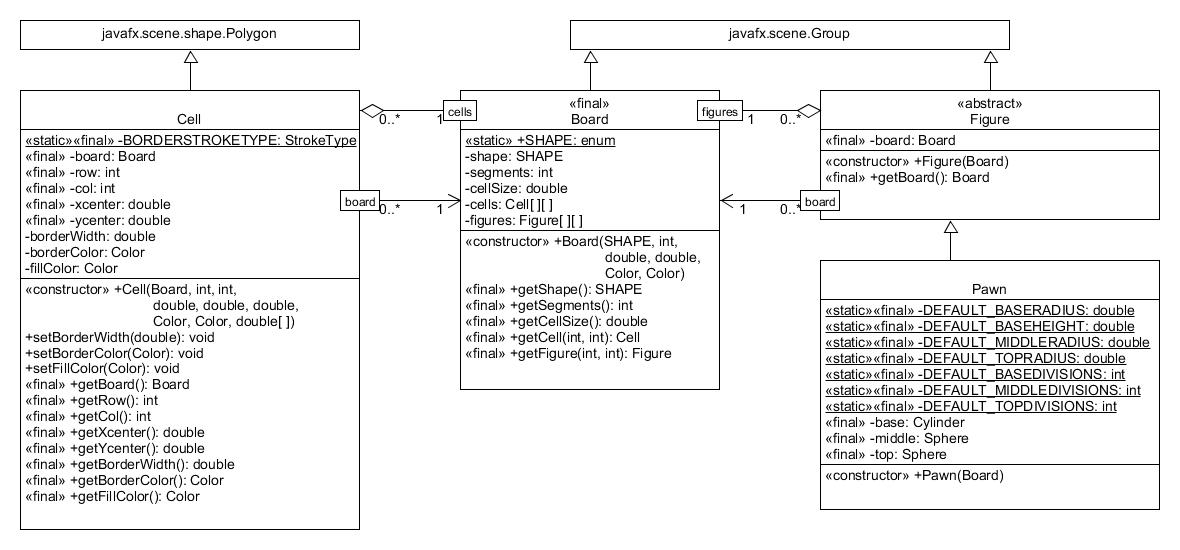
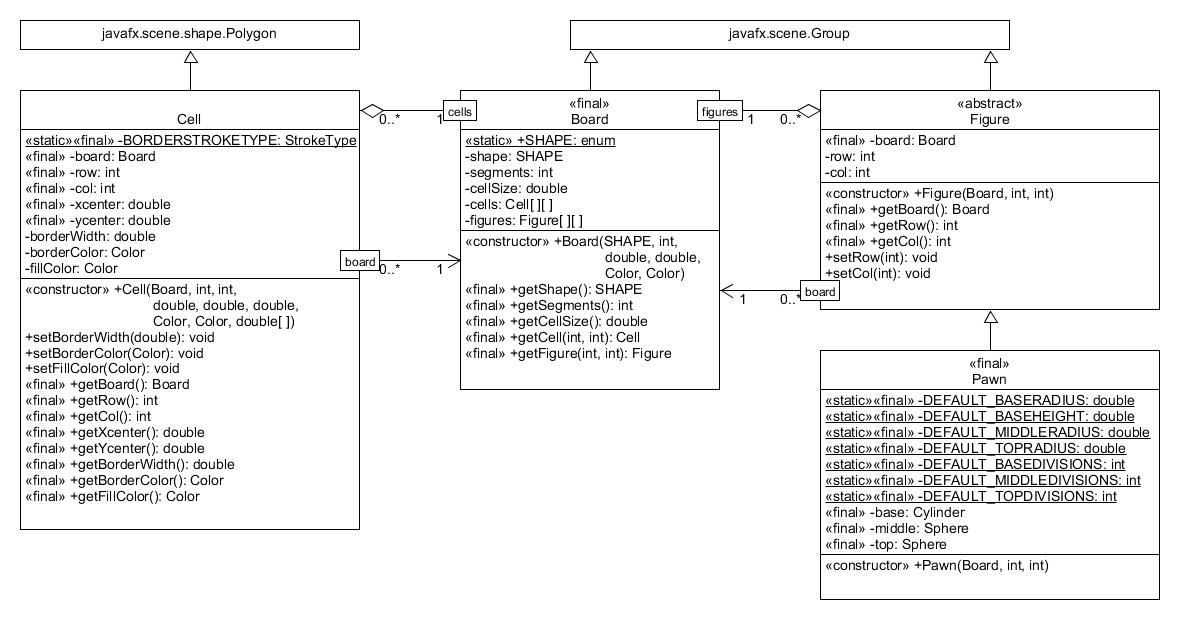
Added coordinates to Figure with mutators and accessors.

diff --git a/src/board/Figure.java b/src/board/Figure.java
@@ -5,7 +5,7 @@ package board;
  * Базов абстрактен клас за фигурите в играта, основан на
  * {@link javafx.scene.Group}
  * .<p>
- * Всяка фигура е част от дъска.
+ * Всяка фигура е разположена върху поле от дъска.
  *
  * @author iliyan-kostov <https://github.com/iliyan-kostov/>
  */
@@ -17,13 +17,53 @@ public abstract class Figure extends javafx.scene.Group {
     private final Board board;
 
     /**
+     * индекс на реда на полето (по Y), върху което е разположена фигурата
+     */
+    private int row;
+
+    /**
+     * индекс на колоната на полето (по X), върху което е разположена фигурата
+     */
+    private int col;
+
+    /**
      * Създава фигура, част от определена дъска.
      *
      * @param board дъска, от която фигурата е част
+     *
+     * @param row индекс на реда на полето (по Y), върху което е разположена
+     * фигурата
+     *
+     * @param col индекс на колоната на полето (по X), върху което е разположена
+     * фигурата
      */
-    public Figure(Board board) {
+    public Figure(Board board, int row, int col) {
         super();
         this.board = board;
+        this.row = row;
+        this.col = col;
+    }
+
+    /**
+     * Задава индекс на реда на полето (по Y), върху което е разположена
+     * фигурата.
+     *
+     * @param row индекс на реда на полето (по Y), върху което е разположена
+     * фигурата
+     */
+    public void setRow(int row) {
+        this.row = row;
+    }
+
+    /**
+     * Задава индекс на колоната на полето (по X), върху което е разположена
+     * фигурата.
+     *
+     * @param col индекс на колоната на полето (по X), върху което е разположена
+     * фигурата
+     */
+    public void setCol(int col) {
+        this.col = col;
     }
 
     /**
@@ -33,5 +73,27 @@ public abstract class Figure extends javafx.scene.Group {
      */
     public final Board getBoard() {
         return this.board;
+    }
+
+    /**
+     * Връща индекса на реда на полето (по Y), върху което е разположена
+     * фигурата.
+     *
+     * @return индекса на реда на полето (по Y), върху което е разположена
+     * фигурата
+     */
+    public final int getRow() {
+        return this.row;
+    }
+
+    /**
+     * Връща индекса на колоната на полето (по X), върху което е разположена
+     * фигурата.
+     *
+     * @return индекса на колоната на полето (по X), върху което е разположена
+     * фигурата
+     */
+    public final int getCol() {
+        return this.col;
     }
 }

diff --git a/src/board/Pawn.java b/src/board/Pawn.java
@@ -31,9 +31,15 @@ public final class Pawn extends board.Figure {
      * Създава фигура (подобна на пешките от шаха), част от определена дъска..
      *
      * @param board дъска, от която фигурата е част
+     *
+     * @param row индекс на реда на полето (по Y), върху което е разположена
+     * фигурата
+     *
+     * @param col индекс на колоната на полето (по X), върху което е разположена
+     * фигурата
      */
-    public Pawn(Board board) {
-        super(board);
+    public Pawn(Board board, int row, int col) {
+        super(board, row, col);
         this.base = new Cylinder(Pawn.DEFAULT_BASERADIUS, Pawn.DEFAULT_BASEHEIGHT, Pawn.DEFAULT_BASEDIVISIONS);
         this.middle = new Sphere(Pawn.DEFAULT_MIDDLERADIUS, Pawn.DEFAULT_MIDDLEDIVISIONS);
         this.top = new Sphere(Pawn.DEFAULT_TOPRADIUS, Pawn.DEFAULT_TOPDIVISIONS);
